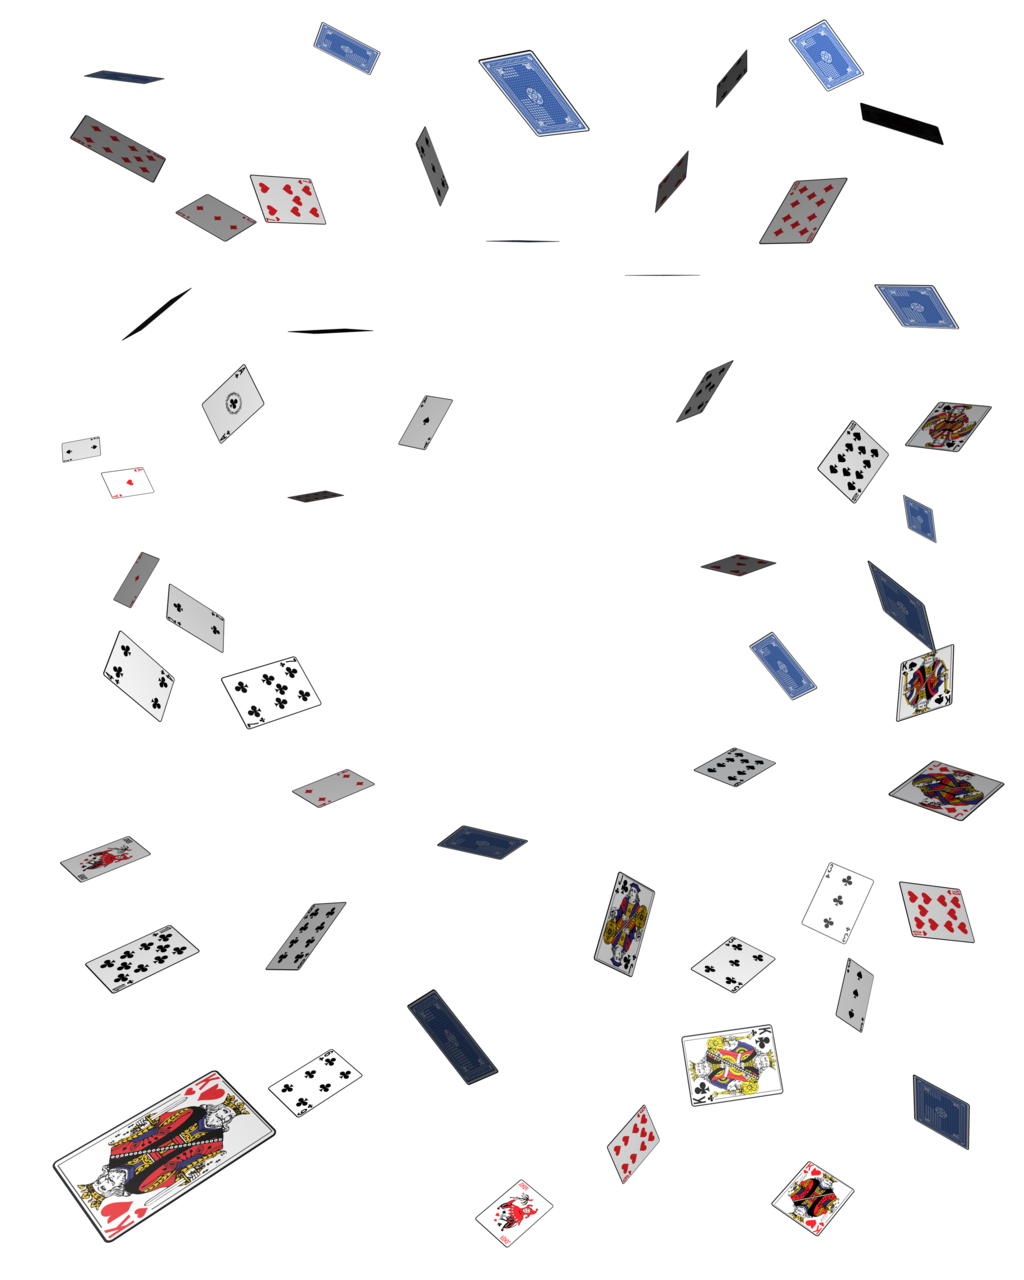
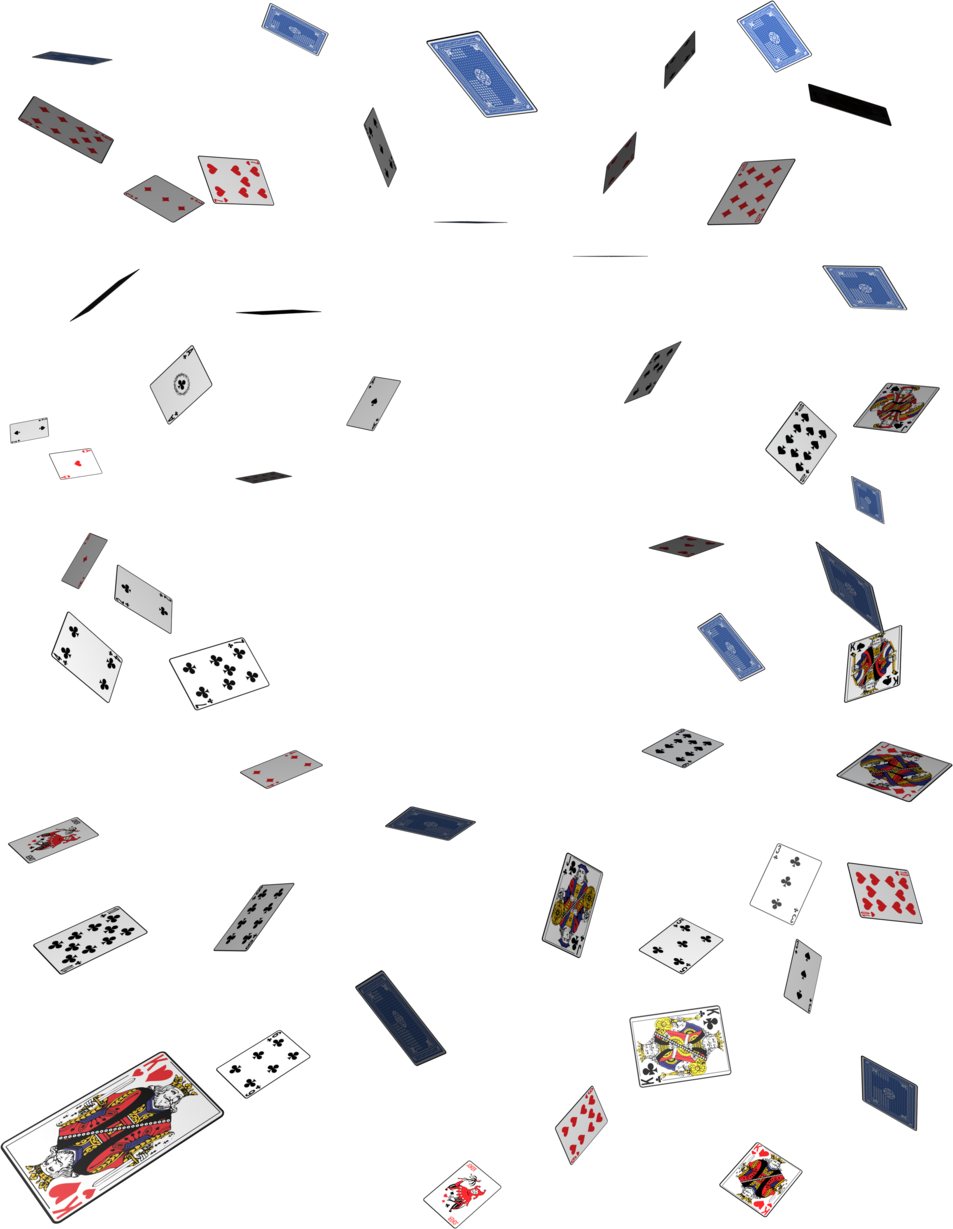
image cards

diff --git a/Eindopdracht/css/siebe.min.css b/Eindopdracht/css/siebe.min.css
@@ -1,1 +1,1 @@
-@import"https://fonts.googleapis.com/css2?family=Oswald:wght@400;500;700&display=swap";:root{--englishViolet: #614762;--russianViolet: #301948;--dogwoodRose: #c62f66;--lavenderPink: #F9B4D2;--oldRose: #c98787;--cadetGray: #7d98a1;--buff: #DDA77B;--wenge: #63595C;--outerSpace: #404E4D}#siebe .bg{position:absolute;width:100%;height:100%;top:0;left:0;background:#000 url(../images/math.jpg) no-repeat;background-size:100% 100%;opacity:.5;z-index:-200;filter:blur(5px) brightness(1.2) contrast(1.2)}#siebe .infoText{color:#f0e6d2;font-size:2rem;position:absolute;background-color:rgba(0,0,0,.462745098);padding:.75rem;border-radius:5%;max-width:30vw;z-index:2}#siebe .infoText span{color:var(--cadetGray)}#siebe .infoText span.red{color:#ff2727}#siebe p{font-family:"Oswald",sans-serif;font-weight:500}#siebe h1{font-size:3rem;font-weight:400;text-align:center}#siebe div.info{text-transform:uppercase;font-weight:700;position:relative;display:block;text-align:center;padding:10vh 10vw;font-size:6.5rem;line-height:5rem;height:100vh;z-index:0;color:var(--cadetGray);filter:drop-shadow(0 8px 4px rgba(22, 62, 58, 0.8));mix-blend-mode:exclusion}#siebe div.info small{display:block;font-size:3rem}#siebe #info-poker{color:#0f0f0f;font-size:2rem;font-weight:700;text-align:center;margin-top:5vw;margin-left:5rem;margin-right:5rem;text-transform:uppercase;font-weight:700;position:relative;display:block;text-align:center;padding:10vh 10vw;font-size:6rem;line-height:5rem;height:100vh;z-index:0;text-shadow:2px 2px 10px rgba(0,0,0,.4)}#siebe #info-poker span.red{color:#ff2727}#siebe .cards{margin:0 auto;rotate:90deg}#siebe .cirkel1{width:100%;height:100vh;color:var(--dogwoodRose)}#siebe .cirkel1 p:first-of-type{width:40vw;padding:2rem;margin-top:15rem;margin-left:5rem}#siebe .cirkel2{width:100%;height:100vh;color:--englishViolet}#siebe #schoppen{opacity:0;top:0}#siebe #harten{opacity:0;top:0}#siebe #klavers{opacity:0;top:50vw}#siebe #text-illuminati{text-transform:uppercase;font-weight:700;position:relative;display:block;text-align:center;padding:10vh 10vw;font-size:6.5rem;line-height:5rem;height:100vh;z-index:0;text-align:right;color:#304a32;text-shadow:2px 2px 10px rgba(0,0,0,.4)}#siebe #text-illuminati .text-illuminati{text-align:right}#siebe #text-illuminati #illuminati-img{opacity:0;top:50vw}/*# sourceMappingURL=siebe.min.css.map */
+@import"https://fonts.googleapis.com/css2?family=Oswald:wght@400;500;700&display=swap";:root{--englishViolet: #614762;--russianViolet: #301948;--dogwoodRose: #c62f66;--lavenderPink: #F9B4D2;--oldRose: #c98787;--cadetGray: #7d98a1;--buff: #DDA77B;--wenge: #63595C;--outerSpace: #404E4D}#siebe .bg{position:absolute;width:100%;height:100%;top:0;left:0;background:#000 url(../images/math.jpg) no-repeat;background-size:100% 100%;opacity:.5;z-index:-200;filter:blur(5px) brightness(1.2) contrast(1.2)}#siebe .infoText{color:#f0e6d2;font-size:2rem;position:absolute;background-color:rgba(0,0,0,.462745098);padding:.75rem;border-radius:5%;max-width:30vw;z-index:2}#siebe .infoText span{color:var(--cadetGray)}#siebe .infoText span.red{color:#ff2727}#siebe p{font-family:"Oswald",sans-serif;font-weight:500}#siebe h1{font-size:3rem;font-weight:400;text-align:center}#siebe div.info{text-transform:uppercase;font-weight:700;position:relative;display:block;text-align:center;padding:10vh 10vw;font-size:6.5rem;line-height:5rem;height:100vh;z-index:0;color:var(--cadetGray);filter:drop-shadow(0 8px 4px rgba(22, 62, 58, 0.8));mix-blend-mode:exclusion}#siebe div.info small{display:block;font-size:3rem}#siebe #info-poker{color:#0f0f0f;font-size:2rem;font-weight:700;text-align:center;margin-top:5vw;margin-left:5rem;margin-right:5rem;text-transform:uppercase;font-weight:700;position:relative;display:block;text-align:center;padding:10vh 10vw;font-size:6rem;line-height:5rem;height:100vh;z-index:0;text-shadow:2px 2px 10px rgba(0,0,0,.4)}#siebe #info-poker span.red{color:#ff2727}#siebe .cards{display:block;position:fixed;top:0;left:0;margin:0 auto;animation:rotate 10s linear infinite;width:100vw;height:100vh;transform-origin:center center;opacity:0}#siebe .cirkel1{width:100%;height:100vh;color:var(--dogwoodRose)}#siebe .cirkel1 p:first-of-type{width:40vw;padding:2rem;margin-top:15rem;margin-left:5rem}#siebe .cirkel2{width:100%;height:100vh;color:--englishViolet}#siebe #schoppen{opacity:0;top:0}#siebe #harten{opacity:0;top:0}#siebe #klavers{opacity:0;top:50vw}#siebe #text-illuminati{text-transform:uppercase;font-weight:700;position:relative;display:block;text-align:center;padding:10vh 10vw;font-size:6.5rem;line-height:5rem;height:100vh;z-index:0;text-align:right;color:#304a32;text-shadow:2px 2px 10px rgba(0,0,0,.4)}#siebe #text-illuminati .text-illuminati{text-align:right}#siebe #text-illuminati #illuminati-img{opacity:0;top:50vw}@keyframes rotate{0%{transform:rotate(0deg)}100%{transform:rotate(360deg)}}/*# sourceMappingURL=siebe.min.css.map */

diff --git a/Eindopdracht/js/siebe.js b/Eindopdracht/js/siebe.js
@@ -128,14 +128,21 @@ function siebe(fase) {
                 y: -500,
                 x: -500,
                 ease: "power2.easeIn" 
-            }, "diamond+=0.6")
-
-
-            .add('diamond2')
+            }, "diamond")
+         /* 
+         ** Cards 
+         */
+            .add('cards')
             .to("#siebe .cards", {
+                opacity: 1,
+            }, 'cards')
+         /* 
+         ** Chill 
+         */
+            .add('chill')
+            .to("#siebe .chill", {
                 opacity: 0,
-                x: -500,
-            }, 'diamond2')
+            }, 'chill')
          /* 
          ** Cirkel 2 
          */
@@ -188,6 +195,10 @@ function siebe(fase) {
                 borderRadius: "0",
                 opacity: 1,
             } , 'box')
+            .to("#siebe .cards", {
+                opacity: 0,
+                y: -1000,
+            }, 'illuminati')
 
 
             /* 

diff --git a/Eindopdracht/scss/siebe.scss b/Eindopdracht/scss/siebe.scss
@@ -100,9 +100,22 @@
     }
 
     .cards {
+        display: block;
+        position: fixed;
+        // top: 20vw;
+        // left: 11vw;
+        top: 0;
+        left: 0;
         margin: 0 auto;
-        rotate: 90deg;
+        animation: rotate 10s linear infinite;
+        // rotate: 100deg;
+        width: 100vw;
+        height: 100vh;
+        transform-origin: center center;
+        opacity: 0;
     }
+    
+
 
 /*
 * Delen
@@ -170,5 +183,12 @@
     
 
 
-
+    @keyframes rotate {
+        0% {
+            transform: rotate(0deg);
+        }
+        100% {
+            transform: rotate(360deg);
+        }
+    }
 }

diff --git a/Eindopdracht/css/siebe.css b/Eindopdracht/css/siebe.css
@@ -96,8 +96,16 @@
   color: rgb(255, 39, 39);
 }
 #siebe .cards {
+  display: block;
+  position: fixed;
+  top: 0;
+  left: 0;
   margin: 0 auto;
-  rotate: 90deg;
+  animation: rotate 10s linear infinite;
+  width: 100vw;
+  height: 100vh;
+  transform-origin: center center;
+  opacity: 0;
 }
 #siebe .cirkel1 {
   width: 100%;
@@ -148,4 +156,12 @@
 #siebe #text-illuminati #illuminati-img {
   opacity: 0;
   top: 50vw;
+}
+@keyframes rotate {
+  0% {
+    transform: rotate(0deg);
+  }
+  100% {
+    transform: rotate(360deg);
+  }
 }/*# sourceMappingURL=siebe.css.map */

diff --git a/Eindopdracht/index.html b/Eindopdracht/index.html
@@ -36,9 +36,11 @@
         <img src="./images/klaver.png" alt="klavers" id="klavers">
       </div>
 
-      <!-- <div class="cards">
-      <img src="./images/cards.png" alt="cards">
-    </div> -->
+      <div class="cards">
+      <img src="./images/card2.png" alt="cards">
+    </div>
+
+    <div class="chill"></div>
 
 
       <div class="before-info"></div>
